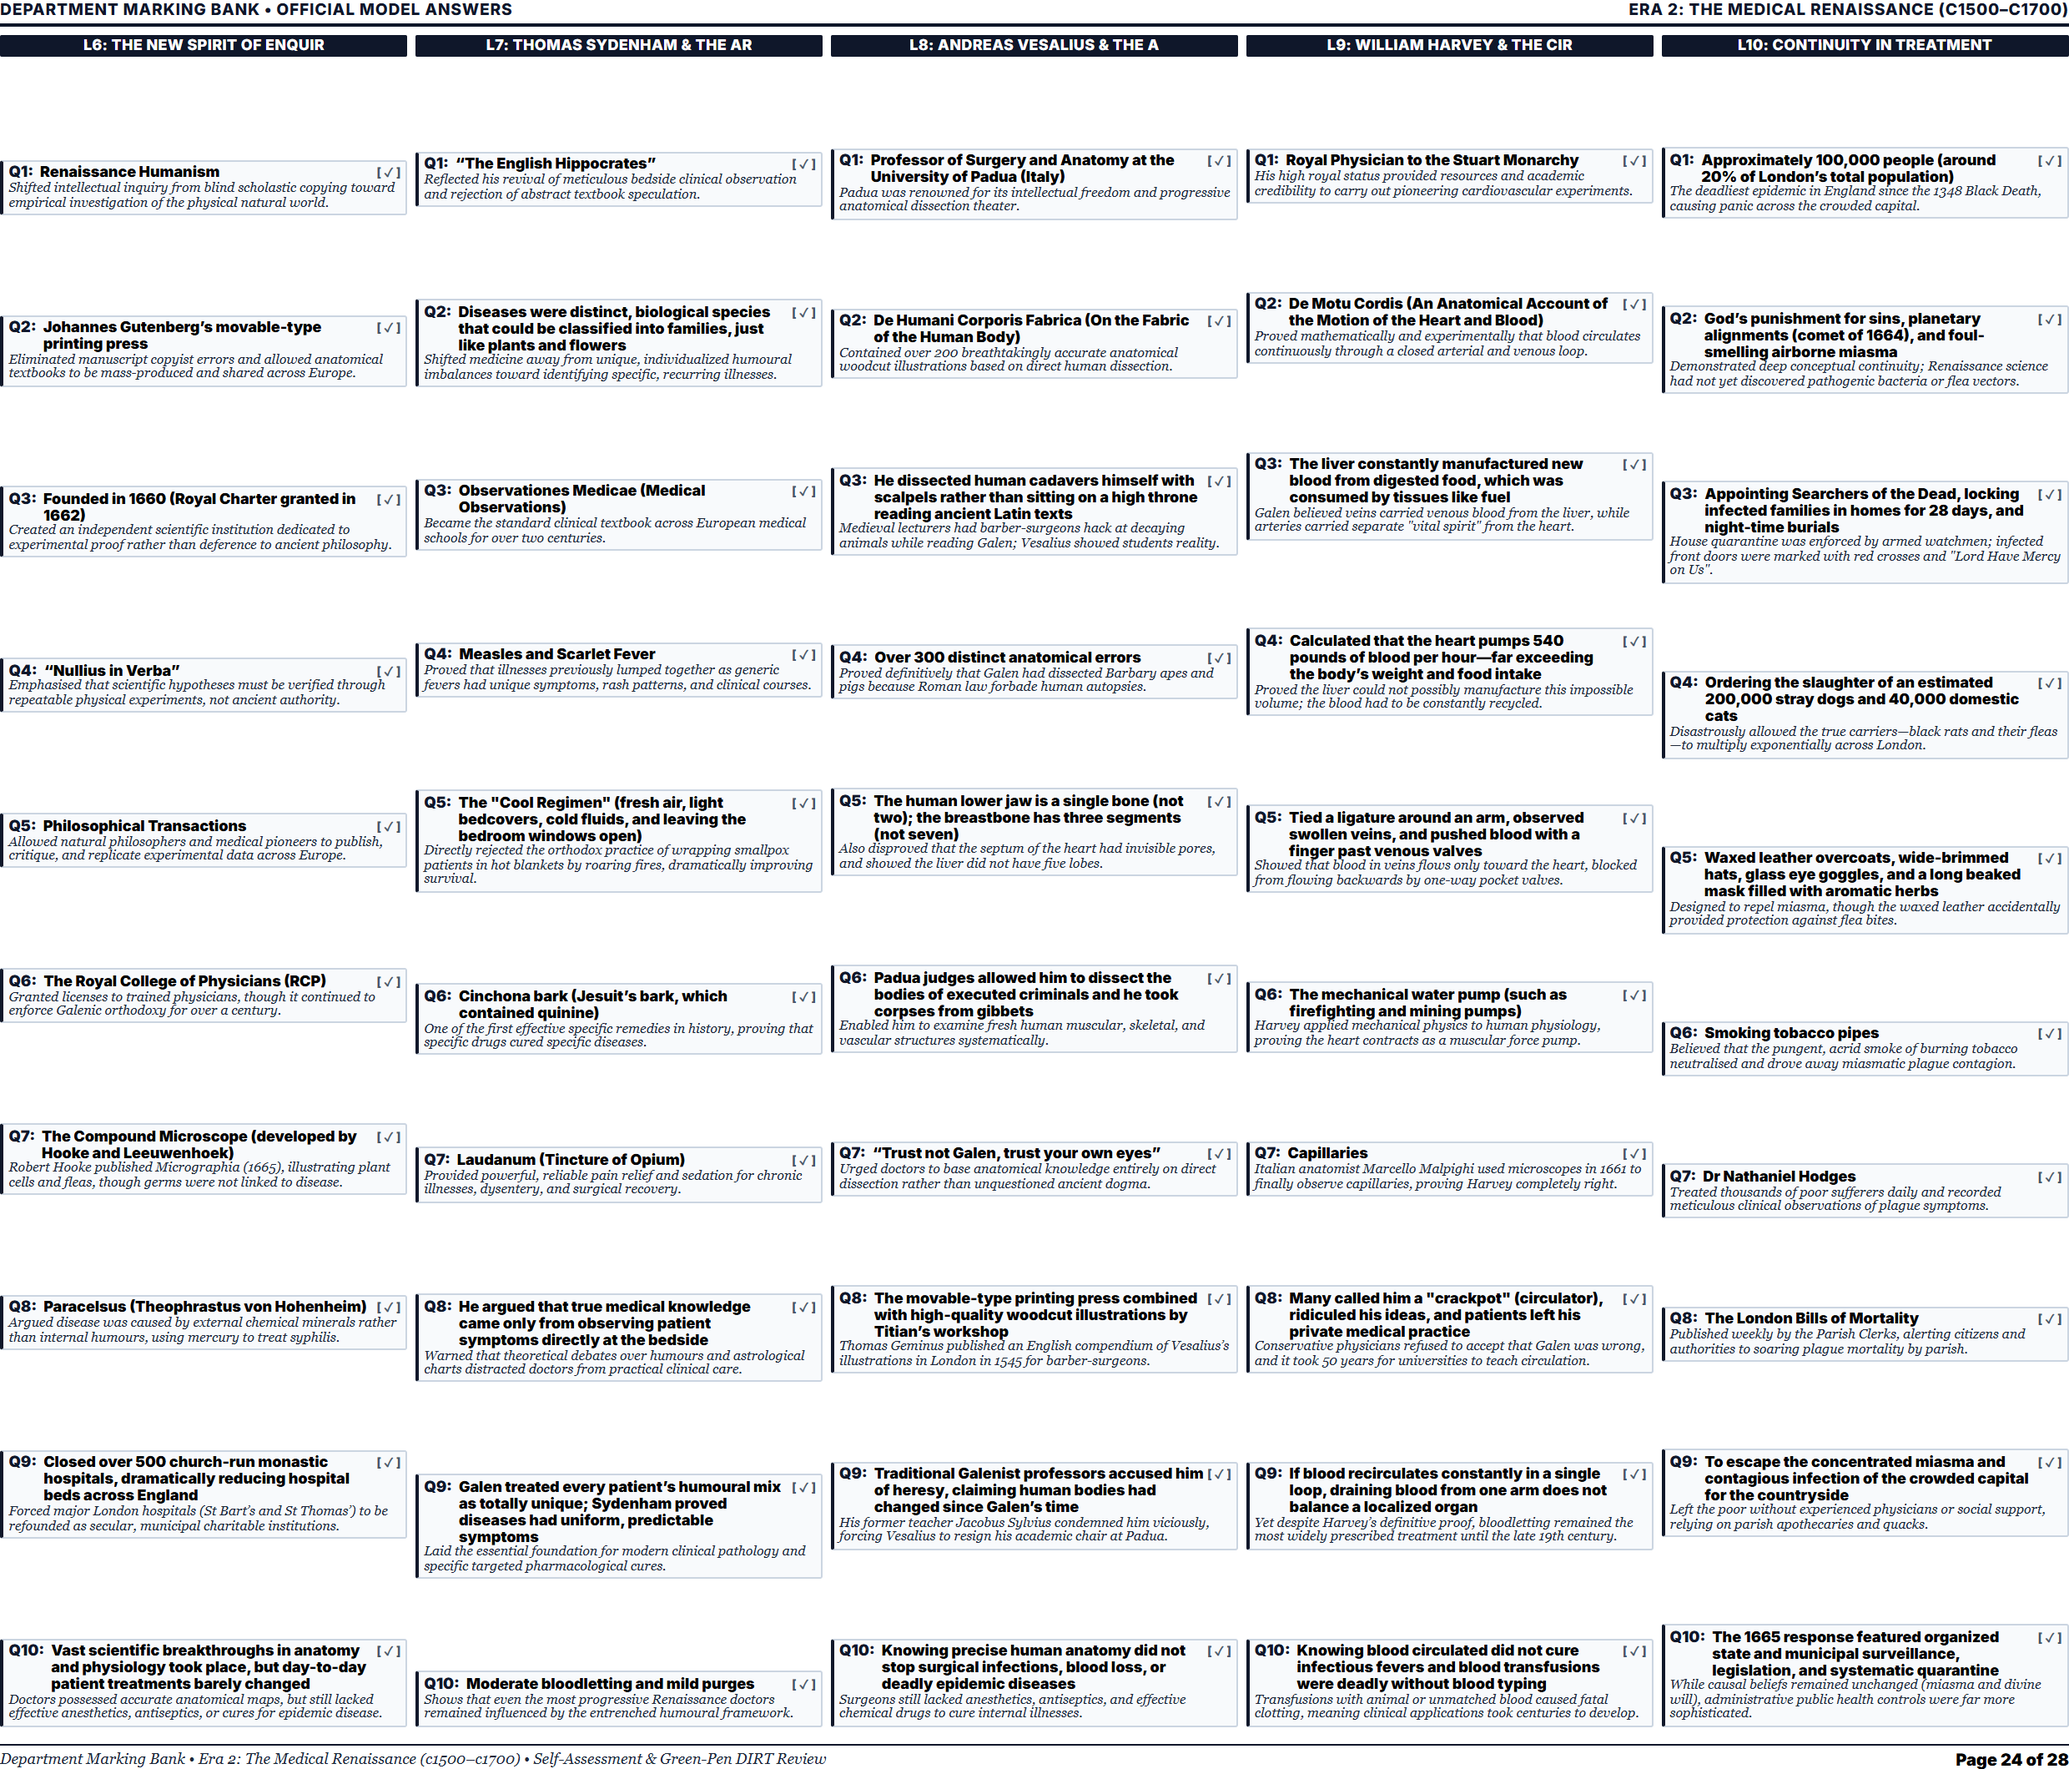
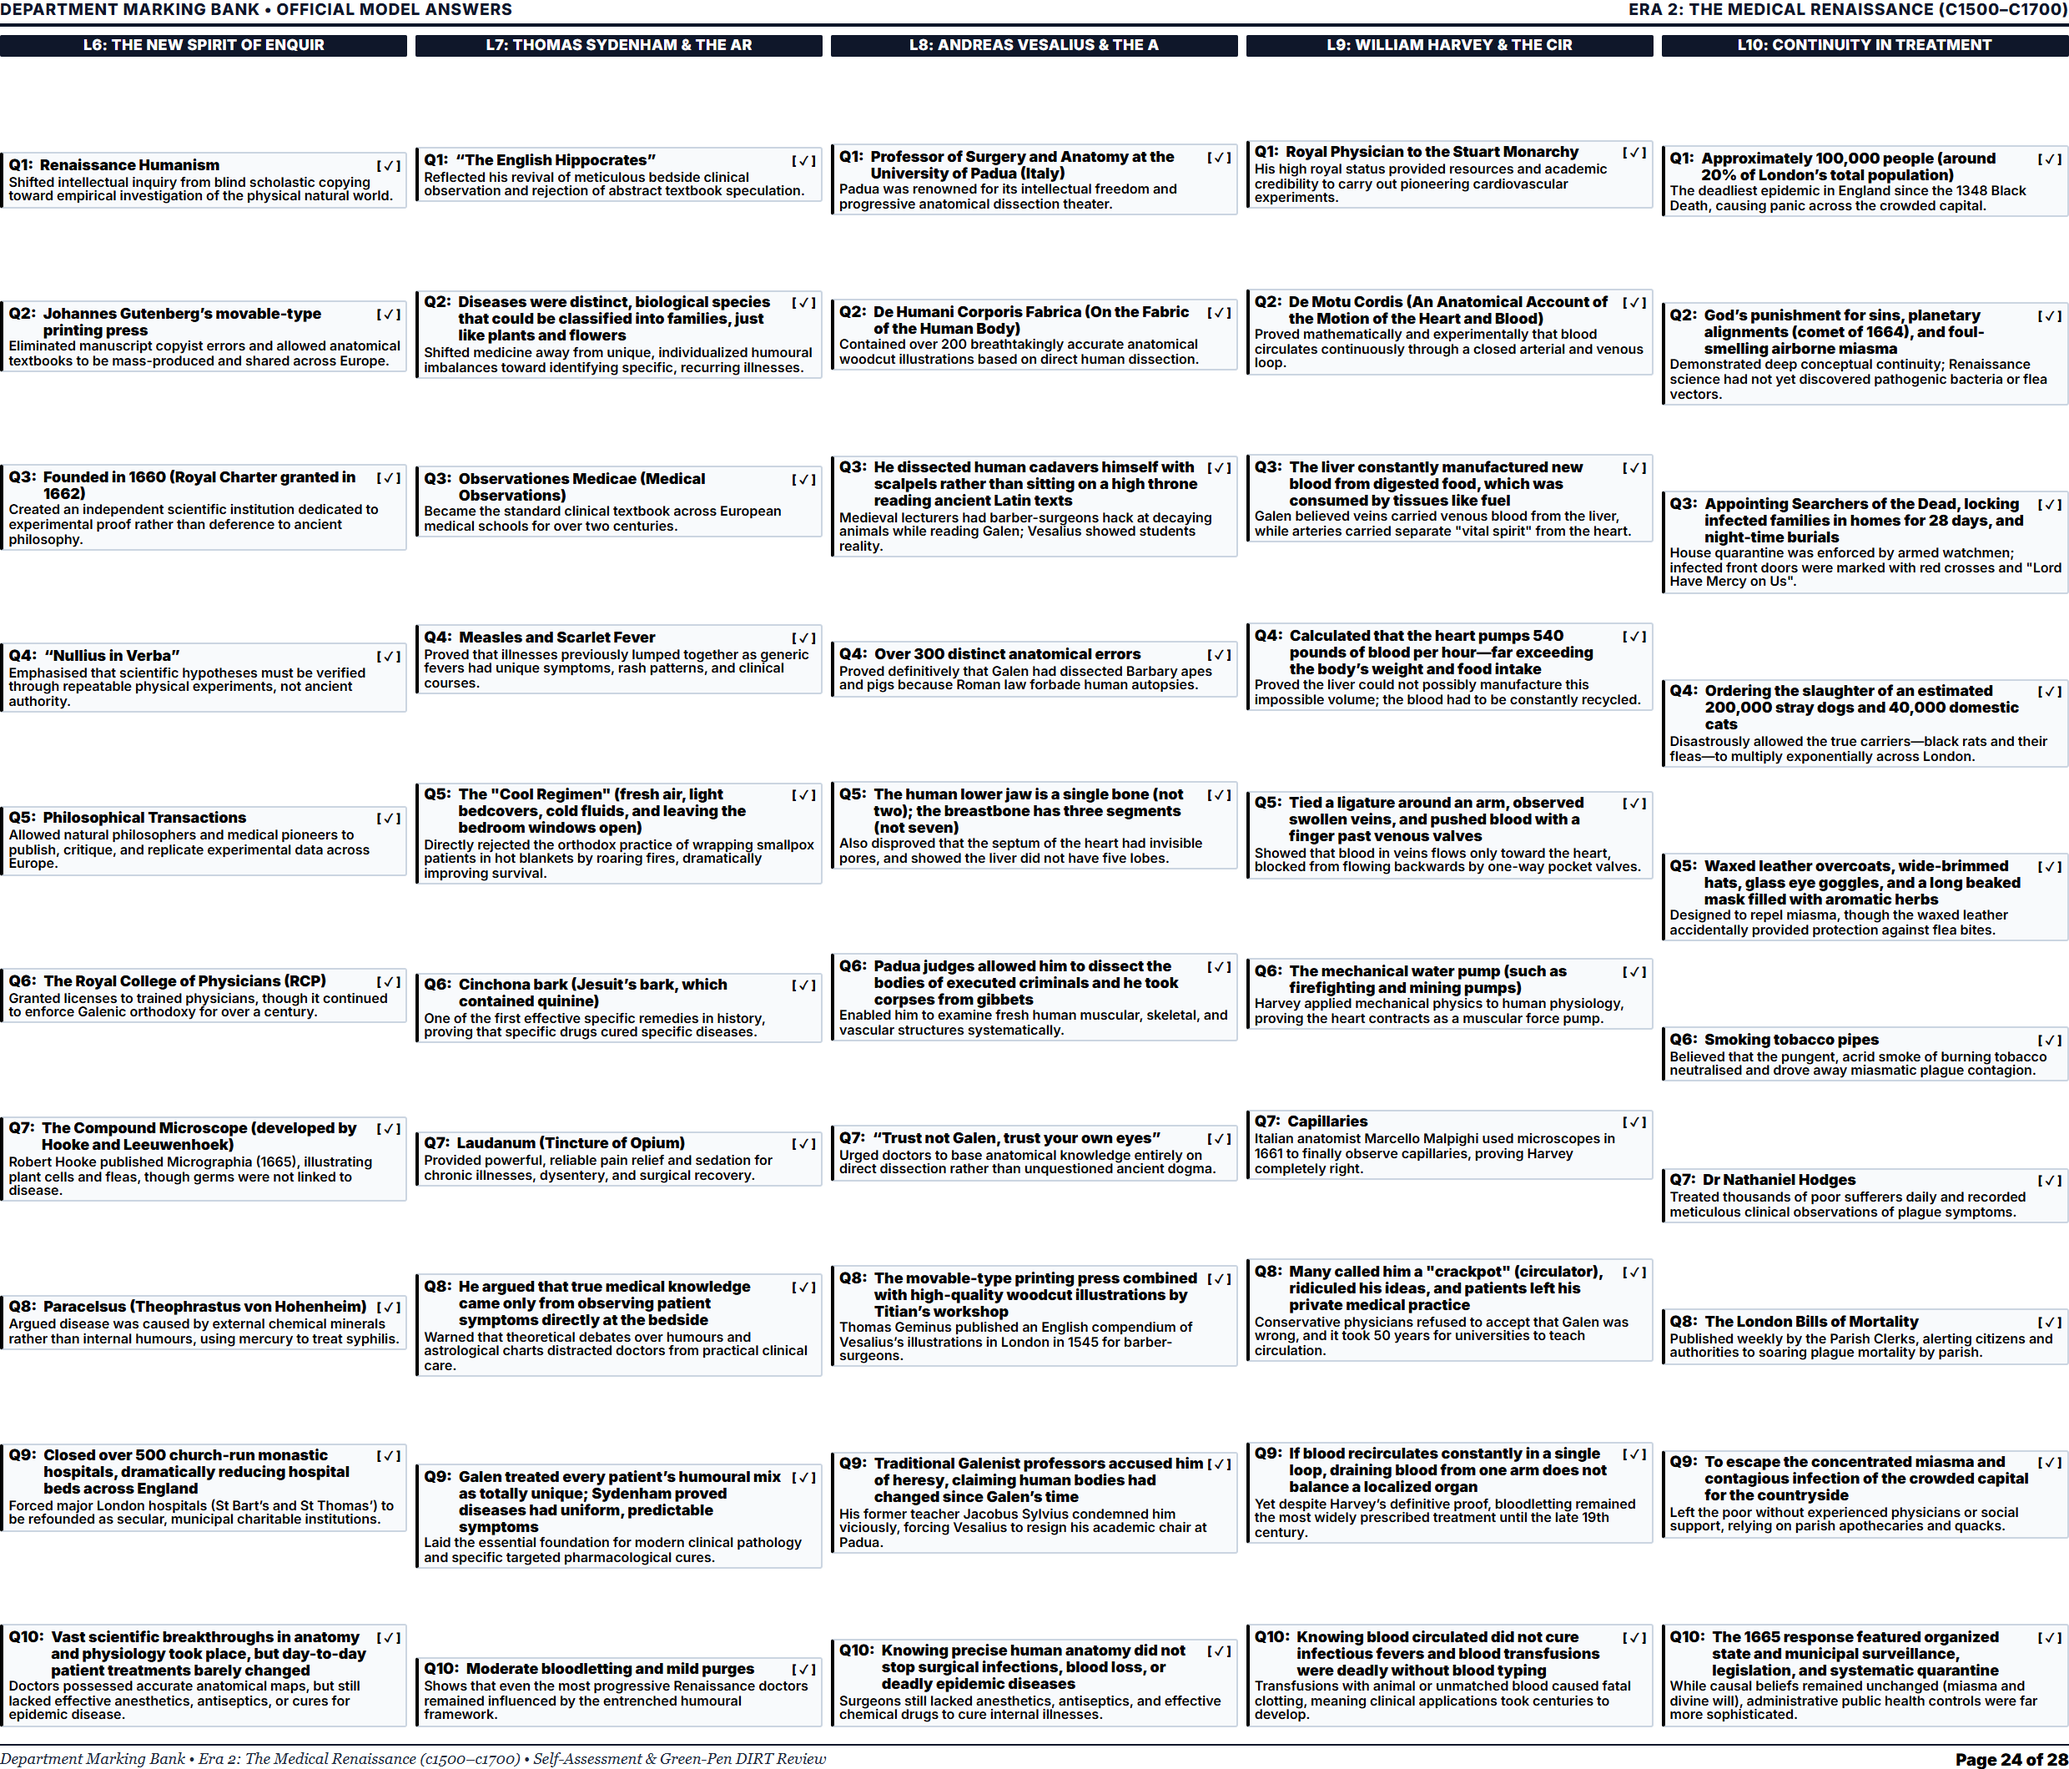
fix(gcse-companions): upgrade marking banks to solid black Inter semi-bold typography for high-contrast reprographics

diff --git a/public/units/edexcel_medicine/western_front_master_retrieval_companion.html b/public/units/edexcel_medicine/western_front_master_retrieval_companion.html
@@ -346,7 +346,7 @@
     }
     .ans-card {
       border: 1px solid #cbd5e1;
-      border-left: 2.8px solid #0f172a;
+      border-left: 2.8px solid #000000;
       background: #f8fafc;
       border-radius: 2px;
       padding: 2.2px 4px;
@@ -363,10 +363,10 @@
       align-items: baseline;
       gap: 3px;
     }
-    .ans-num { font-family: 'Inter', sans-serif; font-weight: 900; color: #0f172a; font-size: 7.4pt; }
+    .ans-num { font-family: 'Inter', sans-serif; font-weight: 900; color: #000000; font-size: 7.4pt; }
     .ans-core { font-family: 'Inter', sans-serif; font-weight: 900; color: #000000; font-size: 7.4pt; flex: 1; margin-left: 3px; }
-    .ans-check { font-family: 'Inter', sans-serif; font-size: 6.2pt; font-weight: 800; color: #475569; white-space: nowrap; }
-    .ans-exp { color: #1e293b; font-family: 'Georgia', serif; font-style: italic; font-size: 6.8pt; line-height: 1.15; }
+    .ans-check { font-family: 'Inter', sans-serif; font-size: 6.2pt; font-weight: 800; color: #000000; white-space: nowrap; }
+    .ans-exp { color: #000000; font-family: 'Inter', sans-serif; font-style: normal; font-weight: 600; font-size: 7.0pt; line-height: 1.15; }
 
     /* Page 11: Sources & Follow-Up Blueprint */
     .source-vault-card {

diff --git a/public/units/cme_new/cme_master_retrieval_companion.html b/public/units/cme_new/cme_master_retrieval_companion.html
@@ -467,17 +467,17 @@
     .mb-ans-row {
       border-bottom: 1px dashed #cbd5e1;
       padding: 1.0px 1px;
-      font-size: 6.6pt;
+      font-size: 6.8pt;
       line-height: 1.15;
       display: flex;
       gap: 3.5px;
       align-items: baseline;
     }
     .mb-ans-row:last-child { border-bottom: none; }
-    .mb-ans-num { font-family: 'Inter', sans-serif; font-weight: 900; color: #0f172a; min-width: 14px; }
-    .mb-ans-text { flex: 1; color: #1e293b; }
-    .mb-ans-bold { font-family: 'Inter', sans-serif; font-weight: 800; color: #000000; }
-    .mb-check-box { font-family: 'Inter', sans-serif; font-size: 6.0pt; font-weight: 800; color: #64748b; white-space: nowrap; }
+    .mb-ans-num { font-family: 'Inter', sans-serif; font-weight: 900; color: #000000; min-width: 14px; }
+    .mb-ans-text { flex: 1; color: #000000; font-weight: 500; }
+    .mb-ans-bold { font-family: 'Inter', sans-serif; font-weight: 900; color: #000000; }
+    .mb-check-box { font-family: 'Inter', sans-serif; font-size: 6.0pt; font-weight: 800; color: #000000; white-space: nowrap; }
 
     /* Page 23: Period Study Question 1 & Question 2 Strategy */
     .strat-meta-bar-23 {

diff --git a/public/units/usa/usa_master_retrieval_companion.html b/public/units/usa/usa_master_retrieval_companion.html
@@ -465,17 +465,17 @@
     .mb-ans-row {
       border-bottom: 1px dashed #cbd5e1;
       padding: 1.0px 1px;
-      font-size: 6.6pt;
+      font-size: 6.8pt;
       line-height: 1.15;
       display: flex;
       gap: 3.5px;
       align-items: baseline;
     }
     .mb-ans-row:last-child { border-bottom: none; }
-    .mb-ans-num { font-family: 'Inter', sans-serif; font-weight: 900; color: #0f172a; min-width: 14px; }
-    .mb-ans-text { flex: 1; color: #1e293b; }
-    .mb-ans-bold { font-family: 'Inter', sans-serif; font-weight: 800; color: #000000; }
-    .mb-check-box { font-family: 'Inter', sans-serif; font-size: 6.0pt; font-weight: 800; color: #64748b; white-space: nowrap; }
+    .mb-ans-num { font-family: 'Inter', sans-serif; font-weight: 900; color: #000000; min-width: 14px; }
+    .mb-ans-text { flex: 1; color: #000000; font-weight: 500; }
+    .mb-ans-bold { font-family: 'Inter', sans-serif; font-weight: 900; color: #000000; }
+    .mb-check-box { font-family: 'Inter', sans-serif; font-size: 6.0pt; font-weight: 800; color: #000000; white-space: nowrap; }
 
     /* Page 23: Section A & B Question Guide */
     .strat-meta-bar-23 {
